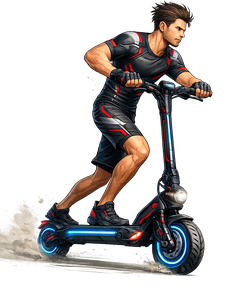
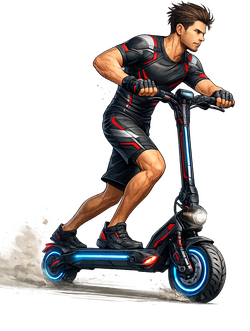
Fix squished images: preserve aspect ratios for all characters
- Reprocess all 9 PNGs with correct proportions (no more square crop)
- Set individual width/height per level matching real image ratios
- Vertical characters (runner, scooter, monowheel): taller than wide
- Vehicles (cars, F1): wider than tall
- Larger sizes for F1 cars (140-160px wide) for track visibility

diff --git a/templates/index.html b/templates/index.html
@@ -3232,22 +3232,22 @@ function levelFunName(level) {
 
 function levelCarHtml(level) {
     const levels = {
-        'Босоногий':    {file:'1-barefoot.png', size:80, anim:'raceFloat 2s ease-in-out infinite', glow:'#a78bfa', tier:0},
-        'Самокатчик':   {file:'2-scooter.png', size:88, anim:'raceFloat 1.8s ease-in-out infinite', glow:'#8b5cf6', tier:1},
-        'Моноколёсник':  {file:'3-monowheel.png', size:88, anim:'raceRush 1.6s ease-in-out infinite', glow:'#06b6d4', tier:2},
-        'Байкер':       {file:'4-biker.png', size:96, anim:'raceDrive 1.4s ease-in-out infinite', glow:'#ef4444', tier:3},
-        'Водитель':     {file:'5-driver.png', size:110, anim:'raceDrive 1.2s ease-in-out infinite', glow:'#3b82f6', tier:4},
-        'Формула 3':    {file:'6-f3.png', size:120, anim:'raceSpeed 1s ease-in-out infinite', glow:'#22c55e', tier:5},
-        'Формула 2':    {file:'7-f2.png', size:125, anim:'raceSpeed 0.8s ease-in-out infinite', glow:'#f59e0b', tier:6},
-        'Формула 1':    {file:'8-f1.png', size:130, anim:'raceSpeed 0.6s ease-in-out infinite', glow:'#ef4444', tier:7},
-        'Чемпион':      {file:'9-champion.png', size:140, anim:'champPulse 1.2s ease-in-out infinite', glow:'#fbbf24', tier:8}
+        'Босоногий':    {file:'1-barefoot.png', w:60, h:79, anim:'raceFloat 2s ease-in-out infinite', glow:'#a78bfa', tier:0},
+        'Самокатчик':   {file:'2-scooter.png', w:65, h:86, anim:'raceFloat 1.8s ease-in-out infinite', glow:'#8b5cf6', tier:1},
+        'Моноколёсник':  {file:'3-monowheel.png', w:60, h:82, anim:'raceRush 1.6s ease-in-out infinite', glow:'#06b6d4', tier:2},
+        'Байкер':       {file:'4-biker.png', w:90, h:85, anim:'raceDrive 1.4s ease-in-out infinite', glow:'#ef4444', tier:3},
+        'Водитель':     {file:'5-driver.png', w:120, h:80, anim:'raceDrive 1.2s ease-in-out infinite', glow:'#3b82f6', tier:4},
+        'Формула 3':    {file:'6-f3.png', w:140, h:67, anim:'raceSpeed 1s ease-in-out infinite', glow:'#22c55e', tier:5},
+        'Формула 2':    {file:'7-f2.png', w:145, h:74, anim:'raceSpeed 0.8s ease-in-out infinite', glow:'#f59e0b', tier:6},
+        'Формула 1':    {file:'8-f1.png', w:150, h:88, anim:'raceSpeed 0.6s ease-in-out infinite', glow:'#ef4444', tier:7},
+        'Чемпион':      {file:'9-champion.png', w:160, h:108, anim:'champPulse 1.2s ease-in-out infinite', glow:'#fbbf24', tier:8}
     };
     const d = levels[level] || levels['Босоногий'];
     const g = d.glow;
-    // Neon cyberpunk SVG character — already facing right, with built-in glow filters
-    const img = '<img src="/static/levels/' + d.file + '" width="' + d.size + '" height="' + d.size + '" style="animation:' + d.anim + ';display:block;" draggable="false">';
+    // Custom character image with proper aspect ratio
+    const img = '<img src="/static/levels/' + d.file + '" width="' + d.w + '" height="' + d.h + '" style="animation:' + d.anim + ';display:block;" draggable="false">';
     // Underglow — soft colored light pool beneath
-    const underglow = '<div style="position:absolute;bottom:-6px;left:50%;transform:translateX(-50%);width:' + (d.size * 0.7) + 'px;height:12px;background:' + g + ';border-radius:50%;animation:glowPulse 2s ease-in-out infinite;opacity:0.6;"></div>';
+    const underglow = '<div style="position:absolute;bottom:-6px;left:50%;transform:translateX(-50%);width:' + (d.w * 0.8) + 'px;height:12px;background:' + g + ';border-radius:50%;animation:glowPulse 2s ease-in-out infinite;opacity:0.6;"></div>';
     return '<div style="position:relative;display:inline-flex;align-items:center;justify-content:center;">' + underglow + img + '</div>';
 }
 
